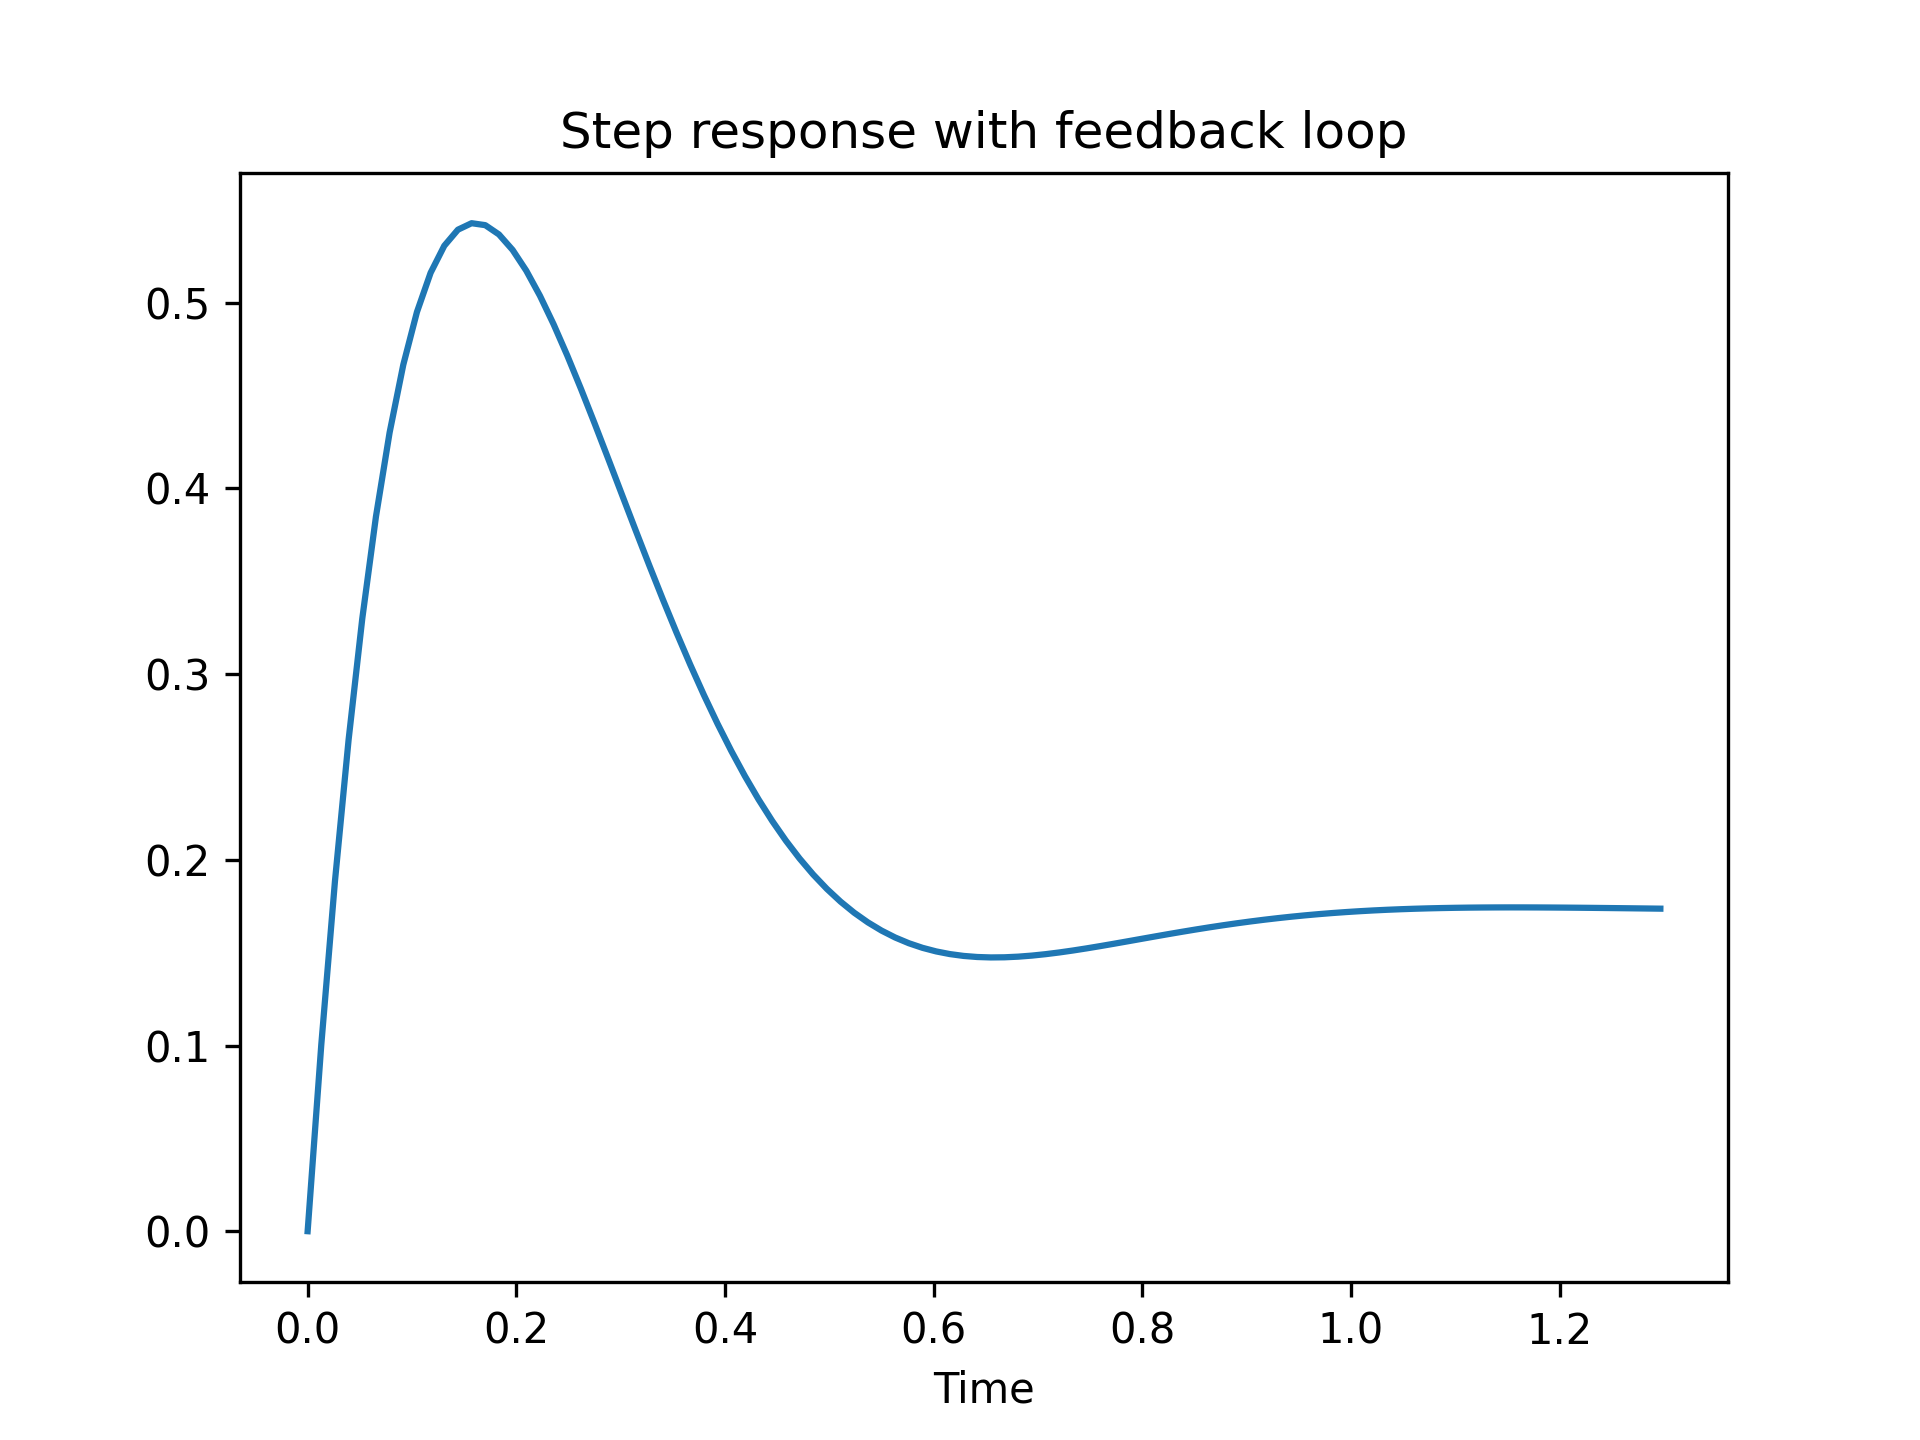
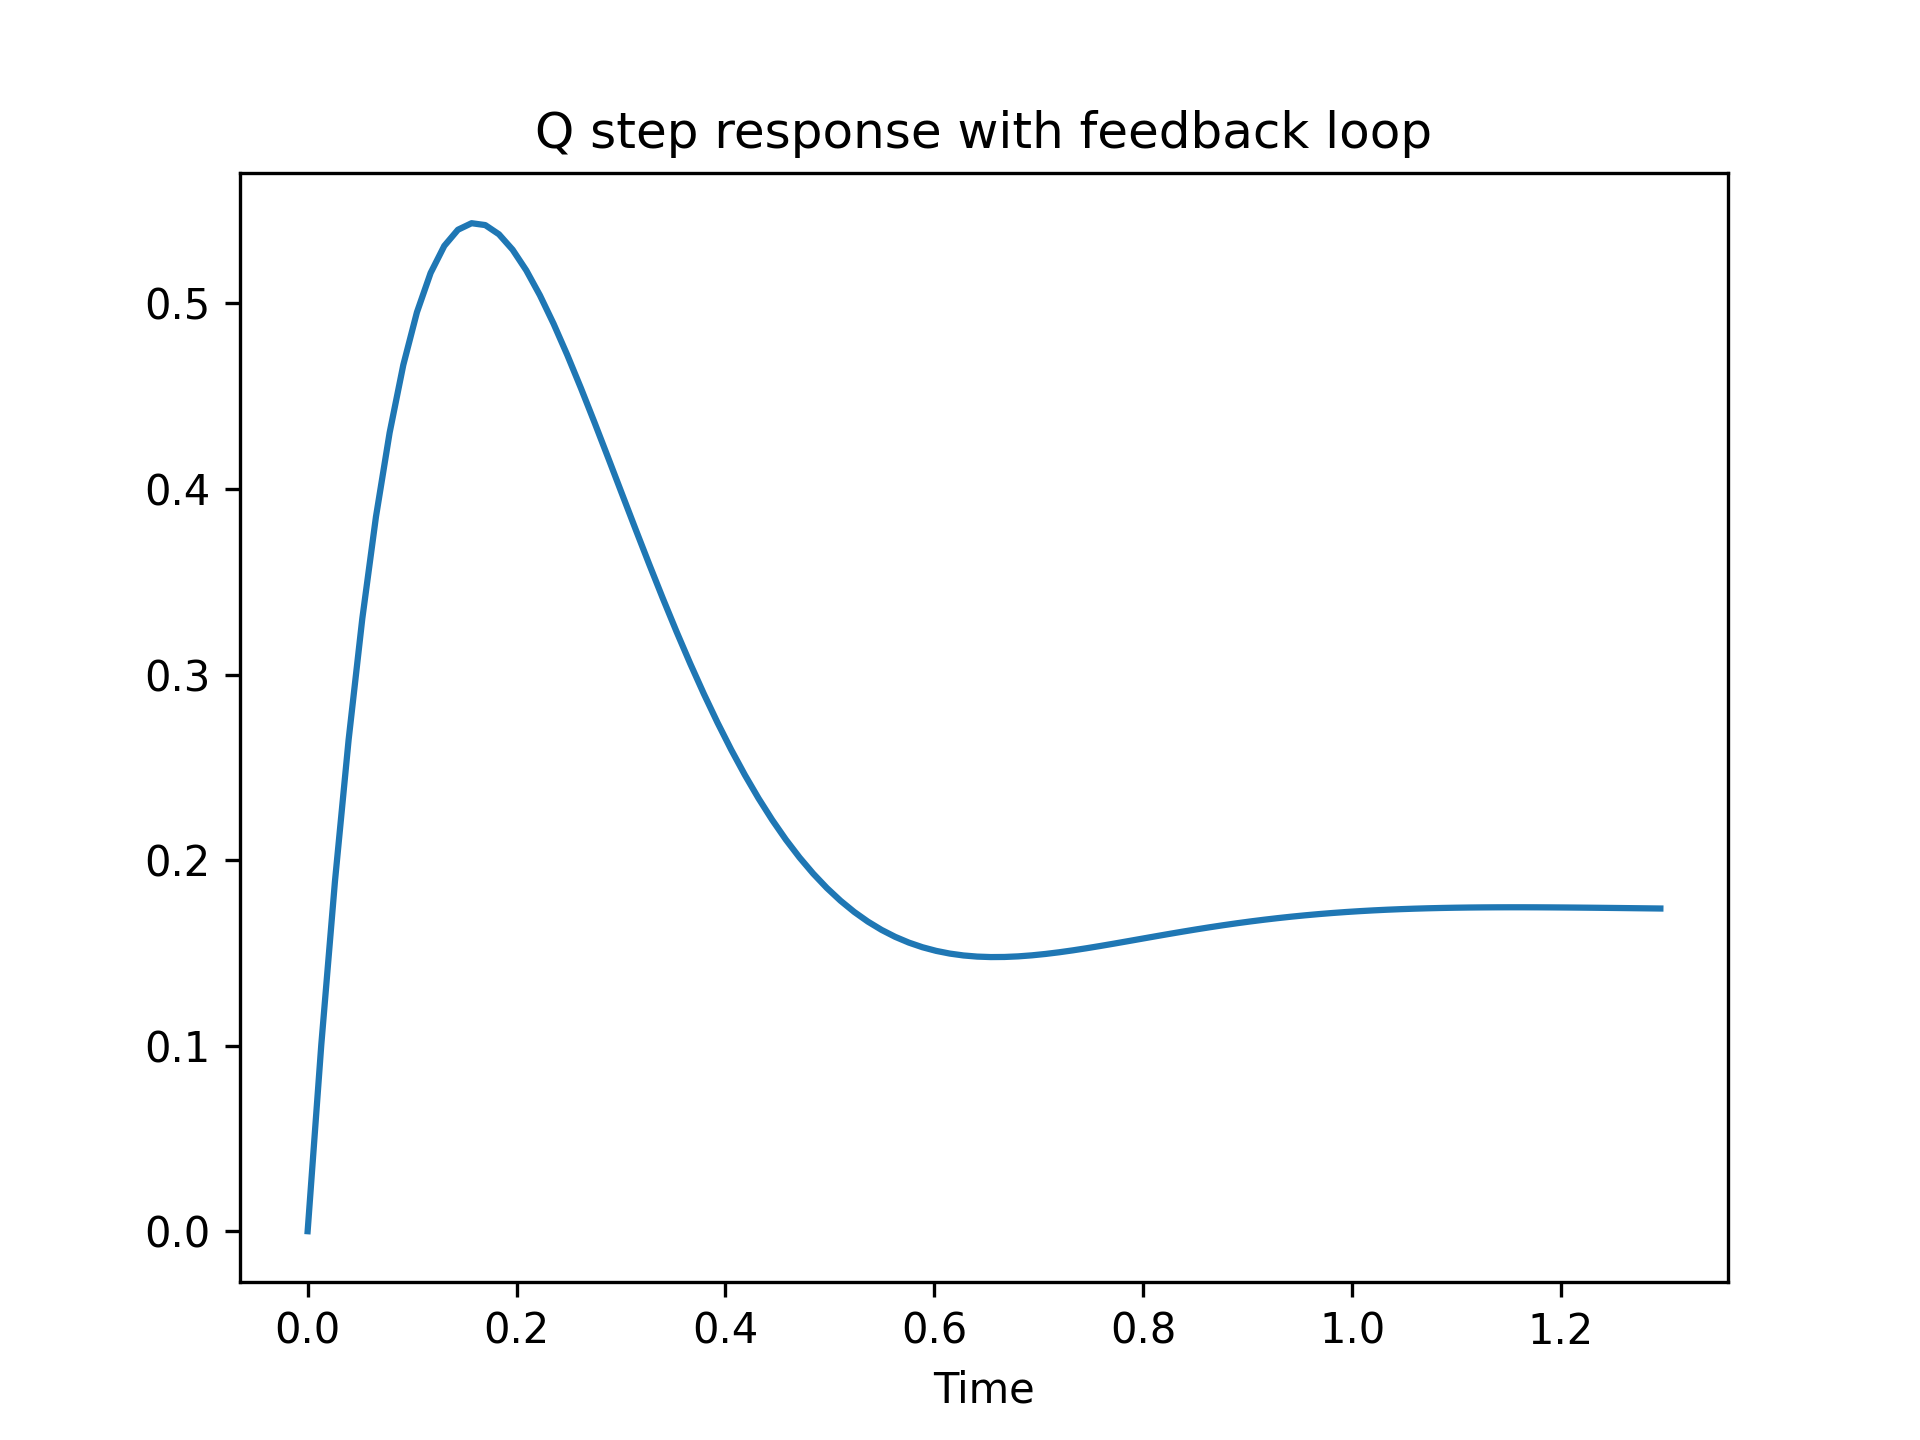
Working feedbacks on Q, Gamma and Z

Changed region(s): [[0.2812, 0.0625, 0.75, 0.125], [0.6875, 0.9062, 0.7188, 0.9375], [0.4688, 0.9062, 0.5, 0.9375]]

diff --git a/TP_Pilotage.py b/TP_Pilotage.py
@@ -36,6 +36,13 @@ Y = F_delta - X_G
 tau = 0.71  #time constant (s) -> used in TF for altitude
 
 # --------
+
+
+
+
+
+
+
 # --------
 
 # Determine the equilibrium conditions around the chosen operating point (point 42)
@@ -69,10 +76,17 @@ while (True):
         break
 
 print('\n------------------------------------------------------------------')
-print(X,Y)
+print("conditions at equilibrium")
 print(
     f'\nalpha eq = {round(np.degrees(alpha_eq), 3)} degrees \nF_p_eq = {round(F_p_xeq, 3)} Newtons'
 )
+
+
+
+
+
+
+
 
 # --------
 
@@ -103,8 +117,8 @@ Z_gamma = (g0 * np.sin(gamma_eq)) / V_eq
 Z_delta_m = (Q * S * C_z_delta) / (m * V_eq)
 
 # --------
-print('\n------------------------------------------------------------------')
-
+print('\n\n\n------------------------------------------------------------------')
+print("State space representation of the system")
 # State space representation of the system
 X = np.array([V_eq, gamma_eq, alpha_eq, Q, delta_m_eq, tau]).T
 A = np.array([[-X_V, -X_gamma, -X_alpha, 0, 0, 0], [Z_V, 0, Z_alpha, 0, 0, 0],
@@ -120,19 +134,26 @@ print('\nB =\n', B)
 print('\nC =\n', C)
 print('\nD =\n', D)
 
+
+
+
+
+
+
+
+
+
 # --------
-print('\n------------------------------------------------------------------')
+print('\n\n\n------------------------------------------------------------------')
 
 #Study of open loop modes: give the values of the modes, theirdamping ratio and their proper pulsation
-print('\n\nOpen loop system :')
+print('\nOpen loop system :')
 control.matlab.damp(ss(A,B,C,D))
 
 # -------
-print('\n------------------------------------------------------------------')
+print('\n\n------------------------------------------------------------------')
 
 # Study the transient phase of the uncontrolled aircraft (shortperiod and phugoid oscillation modes)
-
-fig, (ax1, ax2) = plt.subplots(2, 1) # setup a plot for the step responses
 
 # ------ Phugoid mode ---------
 # State space representation
@@ -142,7 +163,7 @@ C_phu = np.eye(2)
 D_phu = 0
 
 sys_phu = ss(A_phu, B_phu, C_phu, D_phu)
-print("\n\n\nOpen loop Phugoid mode :")
+print("\nOpen loop Phugoid mode :")
 control.matlab.damp(sys_phu)
 
 # V transfer function :
@@ -167,7 +188,7 @@ plt.title('Reponse indicielle Phugoid mode')
 plt.savefig("Plots/reponse_indicielle_phugoid.png", dpi=300)
 
 # ------
-print('\n------------------------------------------------------------------')
+print('\n\n------------------------------------------------------------------')
 
 # ------ Short Period mode ---------
 # State space representation
@@ -177,7 +198,7 @@ C_sp = np.eye(2)
 D_sp = 0
 
 sys_sp = ss(A_sp, B_sp, C_sp, D_sp)
-print("\n\n\nOpen loop Short Period mode :")
+print("\nOpen loop Short Period mode :")
 control.matlab.damp(sys_sp)
 
 # Alpha transfer function :
@@ -205,7 +226,8 @@ plt.savefig("Plots/reponse_indicielle_shortperiod.png", dpi=300)
 
 
 # ------
-print('\n------------------------------------------------------------------')
+print('\n\n\n------------------------------------------------------------------')
+print("Speed controlled with auto-throttle")
 
 # We will now consider that the speed is controlled with an auto-throttle which is perfect (with an instantaneous response).The speed V can be removed from the state vector
 # state vector : (gamma alpha q theta z)
@@ -219,17 +241,22 @@ sys_autothrottle = ss(A5, B5, Cq, Dq)
 print('\n Transfer Function with auto-throttle :')
 print(tf(sys_autothrottle))
 control.matlab.damp(sys_autothrottle)
-print()
+
+
+
+
+
 
 
 # -------
-print('\n------------------------------------------------------------------')
+print('\n\n\n------------------------------------------------------------------')
 print('------ Q feedback ---------')
 # With the help of sisotool (see sisopy31.py), choose the gain Kr of q feedback loop such as the closed loop damping ratio is xi=0.65.
+
 #sisotool(-sys_autothrottle, 0.01, 1)
 
 # after manual tuning, we find
-Kr = - 0.0859
+Kr = - 0.08602
 
 # -------
 # feedback
@@ -251,13 +278,13 @@ control.matlab.damp(Tf_feedback_Q)
 Yq, Tq = control.matlab.step(Tf_feedback_Q)
 plt.figure()
 plt.plot(Tq, Yq)
-plt.title("Step response with feedback loop")
+plt.title("Q step response with feedback loop")
 plt.xlabel('Time')
 plt.savefig('Plots/Q_feedback_step_response.png', dpi=300)
 
 
 
-print('\n------------------------------------------------------------------')
+print('\n\n\n------------------------------------------------------------------')
 print('------- Q feedback with Washout filter ------')
 # Choose the time constant τ of the washout filter (τs/1+τs) allowing to have the same steady state gain for alpha with or without the q feedback loop. Plot the open loop response, the closed loop response without filter and the closed loop response with the washout filter. In the following of this study, this filter will not be taken into account.
 
@@ -290,79 +317,78 @@ plt.plot(Y_feedback, T_feedback, label='closed loop')
 plt.plot(Y_filter, T_filter, label='closed loop filter')
 plt.legend()
 plt.xlabel('Time')
-plt.title("Step response with feedback loop and washout filter")
+plt.title("Q step response with feedback loop and washout filter")
 plt.savefig('Plots/Q_feedback_Washout_filter.png', dpi=300)
 
-print('\n------------------------------------------------------------------')
+
+
+
+
+
+print('\n\n\n------------------------------------------------------------------')
 print('------ Gamma feedback ---------')
 #Choose the gain Kγ of this flight path angle control loop with the help of sisotool;
 #Propose a first choice of a gain allowing a gain margin ≥ 7 dB and a phase margin ≥ 35° and an optimized settling time (to within a 5 % threshold).
-
-sisotool(-Tf_feedback_Q) #, 0.01, 1
+Tf_feedback_Q_gamma = ss2tf(ss(Aq, Bq, np.array([1, 0, 0, 0, 0]), 0))
+# sisotool(Tf_feedback_Q_gamma)
 
 #After manual tuning, we find :
-#K_gamma_test = - 0.199
-#Comment : If GM = 7dB then  tr5% = 1.172s. Maybe problem with OS
+#K_gamma_test = 6.2926
+
+#(Comment : If GM = 7dB then  tr5% = 1.172s. Maybe problem with OS) solved ?
 
 #Choose a second tuning (that will be kept for going on with the study), with the following requirements:
 #an overshoot D1 ≤ 5%;
 #a settling time at 5% tr5% for a step response that must be optimized (meaning minimized);
 #the pseudo-periodic modes must be correctly damped (ξ ≥ 0.5).
-"""
-K_gamma = - 0.0649 #minimized tr5% = 0.846s
+
+K_gamma = 12.41568 #minimized tr5% = 0.799s
 
 #State space with V_p = 0
-A_gamma, B_gamma, C_gamma, D_gamma = ssdata(sys_autothrottle_Q_feedback)
+A_gamma = Aq - K_gamma * Bq * np.array([1, 0, 0, 0, 0])
+B_gamma = K_gamma * Bq
 
-sys_gamma = ss(A_gamma,B_gamma,C_gamma,D_gamma)
-sys_gamma_cl = control.feedback(K_gamma * sys_autothrottle_Q_feedback, 1)
-print('\nState space representation with gamma feedback loop :\n')
-print(tf2ss(sys_gamma_cl))
 
 print('\nTransfer function of the system with gamma feedback loop :\n')
-print(tf(sys_gamma_cl))
+Tf_feedback_gamma = ss2tf(ss(A_gamma, B_gamma, np.array([1, 0, 0, 0, 0]), 0))
+print(Tf_feedback_gamma)
 
-control.matlab.damp(sys_gamma_cl)
+control.matlab.damp(Tf_feedback_gamma)
 
-
-Y_gamma, T_gamma = control.matlab.step(sys_gamma_cl)
-
-
+Y_gamma, T_gamma = control.matlab.step(Tf_feedback_gamma)
 plt.figure()
 plt.plot(T_gamma, Y_gamma)
 plt.xlabel('Time')
-plt.title("Step response with feedback loop with gamma as output")
-plt.savefig('Plots/step_response_feedback_gamma.png', dpi=300)
+plt.title("step response with feedback loop with gamma as the output")
+plt.savefig('Plots/gamma_feedback_step_response.png', dpi=300)
 
 
-print('\n------------------------------------------------------------------')
+
+
+
+
+print('\n\n\n------------------------------------------------------------------')
 print('------ Z feedback ---------')
 #Z feedback loop
+Tf_feedback_gamma_z = ss2tf(ss(A_gamma, B_gamma, np.array([0, 0, 0, 0, 1]), 0))
+#sisotool(Tf_feedback_gamma_z)
 
-#control.sisotool(-sys_gamma_cl, 0.01, 1)
-K_z = - 0.696 #There is a problem with the OS (donc sans doute avant aussi)
+K_z = 0.00327 # tr5% at 1.548 s and damping at 0.555 and 0.709
 
-A_z, B_z, C_z, D_z = ssdata(sys_gamma_cl) # ici je récupère le système d'avant pour créer le nouveau, je sais pas si c'est la bonne méthode.
-print("auto throttle C=", ssdata(sys_autothrottle)[2])
-print("q feedback C=", C_gamma)
-print("Q and gamma feedback C=", C_z)
+A_z = A_gamma - K_z * B_gamma * np.array([0, 0, 0, 0, 1])
+B_z = K_z * B_gamma
 
-sys_z = ss(A_z,B_z,C_z,D_z)
-sys_z_cl = control.feedback(K_z * sys_gamma_cl, 1)
-print('\nState space representation with feedback loop :\n')
-print(tf2ss(sys_z_cl))
+print('\nTransfer function of the system with z feedback loop :\n')
+Tf_feedback_z = ss2tf(ss(A_z, B_z, np.array([0, 0, 0, 0, 1]), 0))
+print(Tf_feedback_z)
 
-print('\nTransfer function of the system with feedback loop :\n')
-print(tf(sys_z_cl))
-control.matlab.damp(sys_z_cl)
+control.matlab.damp(Tf_feedback_z)
 
 
-Y_z, T_z = control.matlab.step(sys_z_cl)
-
+Y_z, T_z = control.matlab.step(Tf_feedback_z)
 
 plt.figure()
 plt.plot(T_z, Y_z)
 plt.xlabel("Time")
-plt.title("Step response with feedback loop with z as output")
-plt.savefig('Plots/step_response_feedback_z.png', dpi=300)
-"""
+plt.title("step response with feedback loop with Z as the output")
+plt.savefig('Plots/z_feedback_step_response.png', dpi=300)
